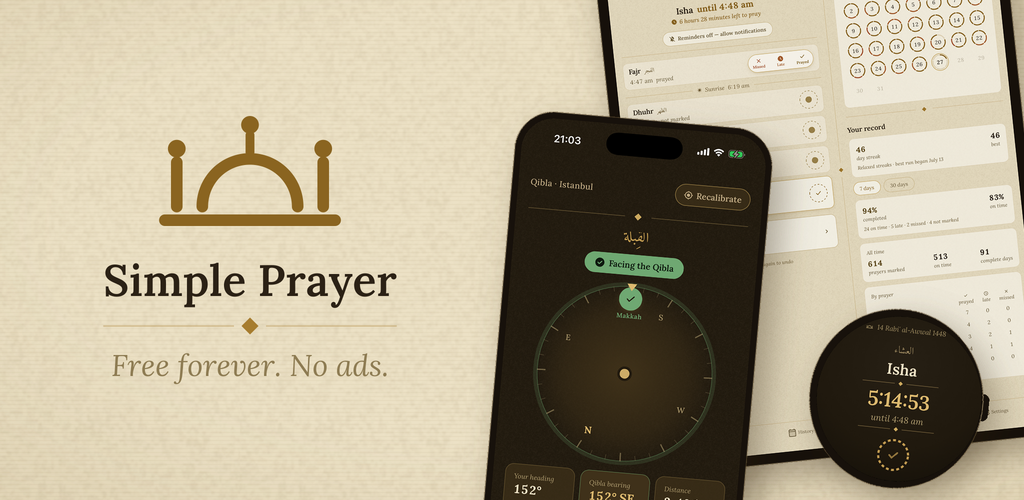
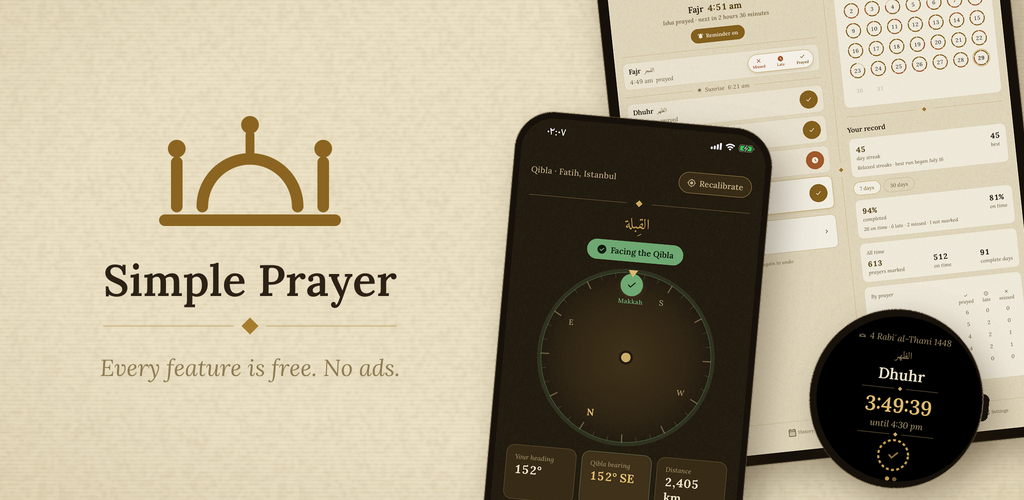
Website: findable by search engines and AI assistants; "Free forever" retired
- og.png and the Play feature graphic say "Every feature is free. No ads." (TONE.md bans
  "Free forever"); regenerated from the same scripts, with the text changed there
- llms.txt: open source and both repos, the store links, /times, /qibla, /blog, and the
  privacy policy's five cases (it said four)
- robots.txt names the search and answer crawlers as allowed
- sitemap lastmod: each article's own date, none elsewhere (not the build time)
- JSON-LD: sameAs (stores, repo), Organization, SoftwareSourceCode, watchOS and Wear OS,
  MIT licence; articles are og:type article with their publish date
- en.ts: three mis-encoded dashes that showed in the /times and /qibla titles
- D203 records it

Claude-Session: https://claude.ai/code/session_018Eqpxzs8pZ5iHL8ZiS66UP

diff --git a/website/src/i18n/en.ts b/website/src/i18n/en.ts
@@ -484,7 +484,7 @@ export const en = {
   /** The prayer-times tool: a section on the home page, and the whole of /times. */
   timesPage: {
     navLabel: 'Prayer times',
-    title: 'Prayer times today â Simple Prayer',
+    title: 'Prayer times today — Simple Prayer',
     description:
       "Today's five prayer times and the next one, worked out in your browser. No account, no ads, and your location never leaves your device.",
     heading: "Today's prayer times",
@@ -510,14 +510,14 @@ export const en = {
   /** The qibla tool at /qibla. */
   qiblaPage: {
     navLabel: 'Qibla',
-    title: 'Qibla direction â Simple Prayer',
+    title: 'Qibla direction — Simple Prayer',
     description:
       'Which way to face for prayer, and how far Makkah is, worked out in your browser. Your location never leaves your device.',
     heading: 'Which way to face',
     lead: 'The direction is worked out from where you are. It is correct on any device, whether or not the dial can turn.',
     enableCompass: 'Turn on the compass',
     compassBlocked:
-      'Your browser did not allow the compass. The direction below is still correct â turn until north on the dial matches north on your own compass.',
+      'Your browser did not allow the compass. The direction below is still correct. Turn until north on the dial matches north on your own compass.',
     faceDirection: 'Makkah is {{degrees}}° from north — {{cardinal}} on a compass.',
     flatHint: 'Lay the phone flat. A web compass has no way to correct for tilt, so a phone held upright will read wrong.',
     inApp: 'The app has a steadier compass, and it does not need the phone flat.',

diff --git a/scripts/generate-marketing-graphics.py b/scripts/generate-marketing-graphics.py
@@ -238,7 +238,7 @@ def build_og() -> None:
 
     mark, _ = mark_fragment(brand.GOLD, 96, 120, 120)
     title, title_w = fitted_text(brand.LORA["semibold"], "Simple Prayer", 76, 440)
-    tagline, _ = fitted_text(brand.LORA["italic"], "Free forever. No ads.", 42, 440)
+    tagline, _ = fitted_text(brand.LORA["italic"], "Every feature is free. No ads.", 42, 440)
     lockup = (
         mark
         + f'<g fill="{brand.INK}" transform="translate(96,372)">{title}</g>'
@@ -282,7 +282,7 @@ def build_play() -> None:
     mark, mark_w = mark_fragment(brand.GOLD, 0, 0, 110)
     mark = mark_fragment(brand.GOLD, cx - mark_w / 2, 116, 110)[0]
     title, title_w = fitted_text(brand.LORA["semibold"], "Simple Prayer", 44, 300)
-    tagline, tag_w = fitted_text(brand.LORA["italic"], "Free forever. No ads.", 30, 300)
+    tagline, tag_w = fitted_text(brand.LORA["italic"], "Every feature is free. No ads.", 30, 300)
     lockup = (
         mark
         + f'<g fill="{brand.INK}" transform="translate({cx - title_w / 2:.1f},296)">{title}</g>'

diff --git a/scripts/generate-brand-assets.py b/scripts/generate-brand-assets.py
@@ -180,7 +180,7 @@ def feature_graphic(width: int = 1024, height: int = 500) -> str:
     if mark_w + gap + title_w > safe:
         title_size *= (safe - mark_w - gap) / title_w
         title, title_w = text_outline(LORA["semibold"], "Simple Prayer Times", title_size)
-    tagline, tagline_w = text_outline(LORA["italic"], "Free forever. No ads.", title_size * 0.54)
+    tagline, tagline_w = text_outline(LORA["italic"], "Every feature is free. No ads.", title_size * 0.54)
 
     block_w = mark_w + gap + max(title_w, tagline_w)
     mark_x = (width - block_w) / 2

diff --git a/docs/DECISIONS.md b/docs/DECISIONS.md
@@ -206,3 +206,4 @@ New decisions during execution get appended here with date + rationale. Reversal
 | D200 | **`FOSS_BUILD=1` builds the app with none of our third-party services.** `app.config.ts` reads `app.json` unchanged for our builds; with `FOSS_BUILD=1` it drops the `@sentry/react-native` plugin, `extra.revenueCat`, `android.googleServicesFile` and the EAS project fields (owner, project ID, update URL; updates switched off). The Sentry DSN moves out of `telemetry.ts` into `app.json` → `extra.sentryDsn`, so a build without it (FOSS, or a fork) starts no crash reporting at all. The guide is `docs/BUILD_YOURSELF.md` | Owner, 2026-11-08 (D199): make it easy to strip away Sentry, RevenueCat and Firebase-FCM. One switch rather than a fork-maintained diff: anyone can build the app with no accounts or keys of ours, and our own builds are untouched |
 | D201 | **Correction to D187's account of upstream adhan-js** — the facts, checked read-only with `gh` on 2026-11-08. (1) The vendored commit `93b3ede` (2026-10-29, the merge of #236) is on adhan-js's **`develop`** branch, not `main`. (2) Our five fixes landed as #232–#236, but not all as our code: **#234, #235 and #236 keep the owner's commits**; **#233** is the maintainer's "rebased from #209"; **#232** is the maintainer's own broader rewrite (stricter polar-circle validation) that superseded our #208, closed with "resolved in #232". (3) Our PR **#212** (the CommonJS build loadable by Node) was merged directly to `main` and shipped in **adhan 4.4.6** (2026-08-31). (4) Our issue **#214** (AqrabBalad jumps near the polar transitions) was declined by the maintainer and closed on **2026-11-03** | D187 said "upstream `main`" and "all five were merged upstream", which overstated both. The patch itself is unchanged; only the record is corrected |
 | D202 | **D18's "existing private repo" is superseded by D199.** Direct commits to `main` stand; the repository is now the new public repo, and the old private one is kept as `simple-prayer-app-archive` | Owner, 2026-11-08 (D199) |
+| D203 | **Discoverability pass on the website, and "Free forever" retired from the graphics.** (1) The marketing composites (`og.png`, the Play feature graphic) and `llms.txt` said "Free forever", which `docs/TONE.md` bans; they now say "Every feature is free", from the same generator scripts. (2) `llms.txt` now states open source (MIT) with both repository links, the store links, `/times`, `/qibla` and `/blog`, and the privacy policy's **five** cases (it said four). (3) `robots.txt` names the search and answer crawlers (Googlebot, Bingbot, OAI-SearchBot, ChatGPT-User, Claude-SearchBot, Claude-User, PerplexityBot, Applebot) as allowed, so a host default cannot block them without this file saying so; training crawlers stay allowed by the `*` rule. (4) The sitemap's `lastmod` is the article's own date on `/blog/*` and absent elsewhere, instead of the build time on every URL. (5) Structured data: the app's `sameAs` (both stores, the repo), an `Organization` and a `SoftwareSourceCode` entity, watchOS and Wear OS in `operatingSystem`, the MIT licence; articles are `og:type` article with their publish date. (6) Three English strings carried a mis-encoded dash ("â\u0080\u0094"), which showed in the live `/times` and `/qibla` titles. Still rejected: the Smart App Banner (D156). Still in place, on purpose: the home page's language redirect (Googlebot reports English, so `/` stays English for it) | Owner, 2026-11-08: open-sourced, growth through search and AI assistants (marketing plan, "Search and AI assistants"). No analytics, no embeds and no `connect-src` change: every item is static markup or a text file |
